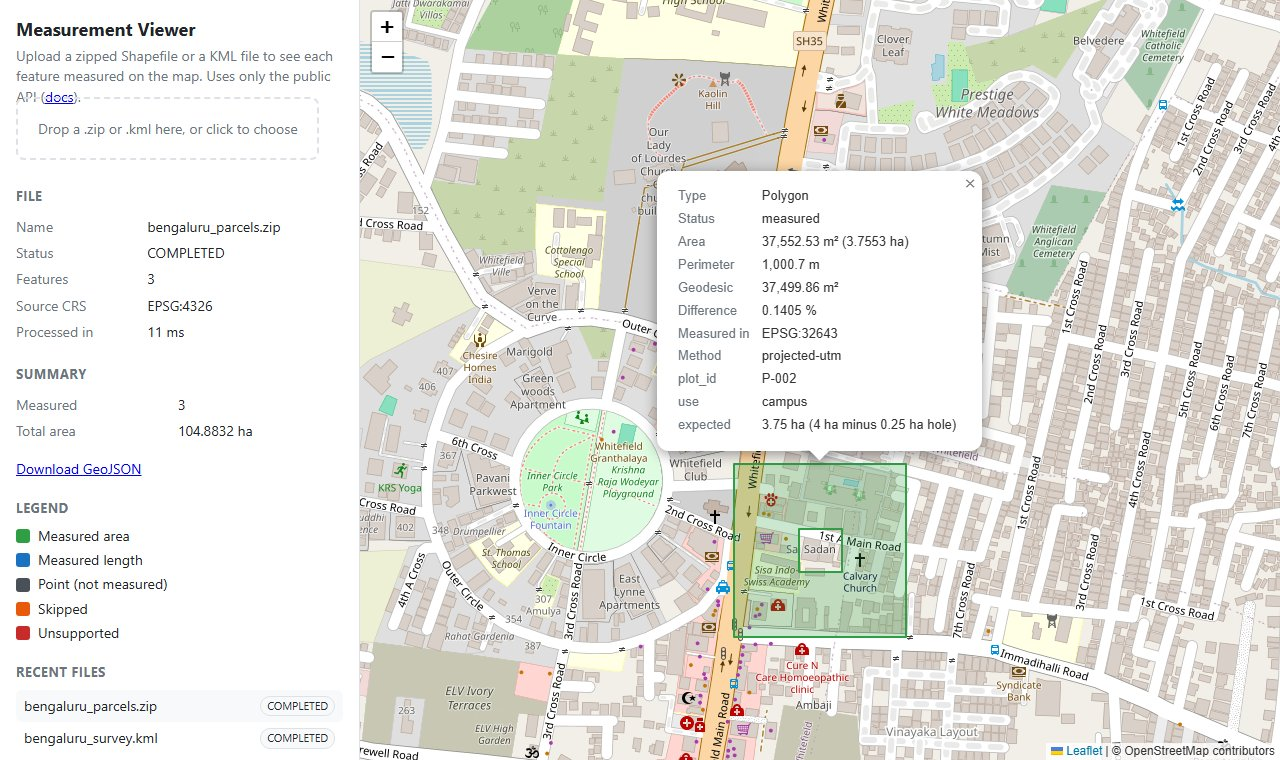
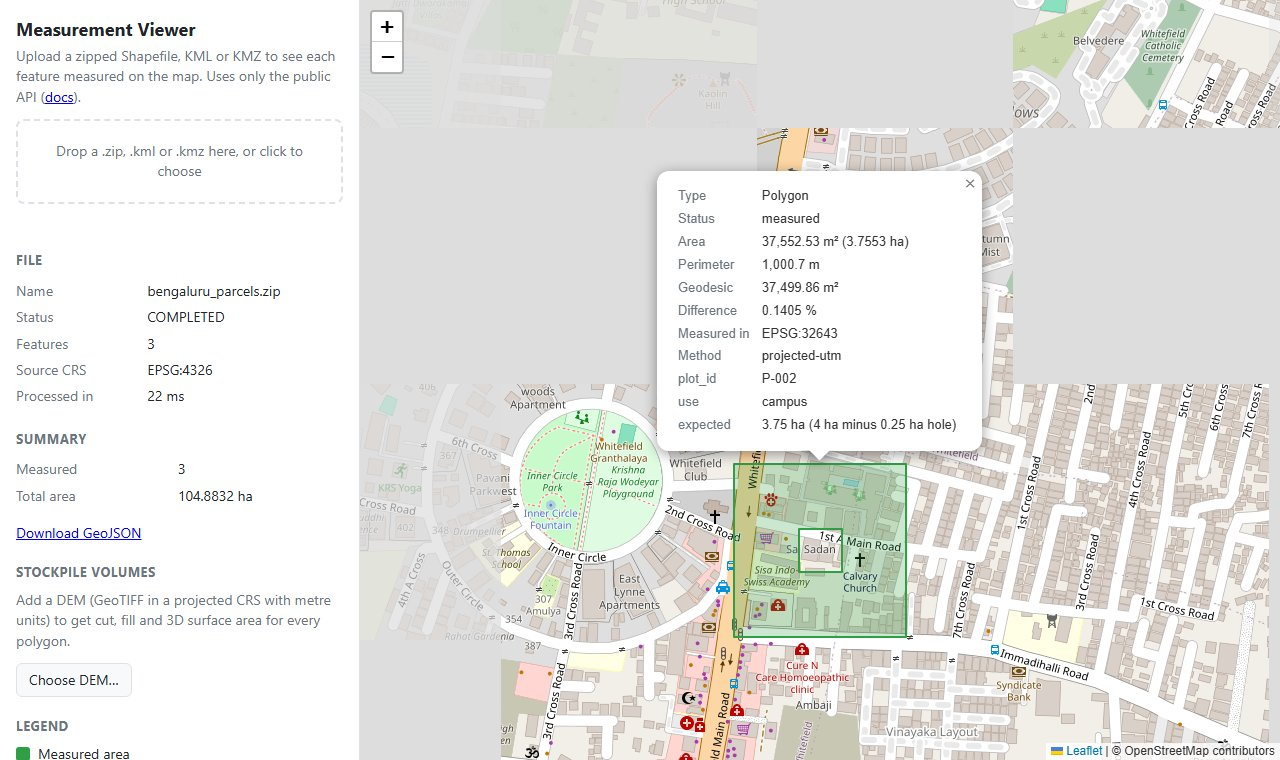
feat: stockpile volumes in the map viewer; fix drop-zone layout

diff --git a/app/static/viewer/index.html b/app/static/viewer/index.html
@@ -27,7 +27,7 @@
          margin: 20px 0 8px; }
     p.hint { color: var(--muted); margin: 0 0 12px; }
     #drop {
-      border: 2px dashed var(--border); border-radius: 8px; padding: 20px; text-align: center;
+      display: block; border: 2px dashed var(--border); border-radius: 8px; padding: 20px; text-align: center;
       cursor: pointer; color: var(--muted);
     }
     #drop.over { border-color: var(--measured-line); color: var(--measured-line); }
@@ -45,6 +45,9 @@
     .legend li { display: flex; align-items: center; gap: 8px; margin: 4px 0; }
     .swatch { width: 14px; height: 14px; border-radius: 3px; display: inline-block; }
     .warning { color: var(--skipped); }
+    .button { display: inline-block; padding: 6px 12px; border: 1px solid var(--border);
+              border-radius: 6px; cursor: pointer; background: var(--bg); }
+    .button:hover { border-color: var(--measured-line); }
     .leaflet-popup-content table { min-width: 220px; }
     @media (max-width: 720px) {
       body { flex-direction: column; }
@@ -70,6 +73,14 @@
     <h2>Summary</h2>
     <table id="summary-table"></table>
     <p><a id="geojson-link" href="#" download>Download GeoJSON</a></p>
+    <h2>Stockpile volumes</h2>
+    <p class="hint">Add a DEM (GeoTIFF in a projected CRS with metre units) to get cut, fill and
+      3D surface area for every polygon.</p>
+    <label class="button">
+      <input id="dem-input" type="file" accept=".tif,.tiff" hidden>
+      Choose DEM…
+    </label>
+    <table id="volume-table"></table>
   </section>
 
   <h2>Legend</h2>
@@ -103,6 +114,8 @@
     attribution: "&copy; OpenStreetMap contributors",
   }).addTo(map);
   let featureLayer = null;
+  let currentFileId = null;
+  let volumesByIndex = new Map();
 
   // Every call goes through the public API; errors arrive in the API's error envelope.
   async function api(path, options) {
@@ -157,6 +170,7 @@
         : `${number(properties.difference_pct, 4)} %`],
       ["Measured in", properties.measurement_crs],
       ["Method", properties.method],
+      ...volumeRows(volumesByIndex.get(properties.index)),
       ...properties.warnings.map((warning) => ["Warning", warning]),
       // The feature's own attributes from the source file, after the measurement.
       ...Object.entries(properties.attributes).map(([key, value]) => [key, String(value)]),
@@ -164,8 +178,45 @@
     return fillTable(document.createElement("table"), rows);
   }
 
+  function volumeRows(volume) {
+    if (!volume) return [];
+    return [
+      ["Cut", `${number(volume.cut_volume_m3)} m³`],
+      ["Fill", `${number(volume.fill_volume_m3)} m³`],
+      ["Surface (3D)", `${number(volume.surface_area_m2)} m²`],
+      ["Base elevation", `${number(volume.base_elevation_m)} m`],
+      ...volume.warnings.map((warning) => ["Warning", warning]),
+    ];
+  }
+
+  async function computeVolumes(dem) {
+    showMessage(`Computing volumes from ${dem.name}…`);
+    const form = new FormData();
+    form.append("dem", dem);
+    try {
+      const report = await api(`/api/files/${currentFileId}/volumes/`, { method: "POST", body: form });
+      volumesByIndex = new Map(
+        report.items.filter((item) => item.measured).map((item) => [item.index, item]),
+      );
+      fillTable(document.getElementById("volume-table"), [
+        ["DEM", `${report.dem.crs}, ${report.dem.cell_size_m[0]} m cells`],
+        ["Cut", `${number(report.totals.cut_volume_m3)} m³`],
+        ["Fill", `${number(report.totals.fill_volume_m3)} m³`],
+        ["Net", `${number(report.totals.net_volume_m3)} m³`],
+        ...report.items.filter((item) => !item.measured)
+          .map((item) => [`Feature ${item.index}`, item.reason]),
+      ]);
+      showMessage(volumesByIndex.size ? "Volumes added to the polygon popups." : "No polygons to measure.");
+    } catch (error) {
+      showMessage(error.message, true);
+    }
+  }
+
   async function loadFile(fileId) {
     const file = await api(`/api/files/${fileId}/`);
+    currentFileId = file.id;
+    volumesByIndex = new Map();
+    document.getElementById("volume-table").replaceChildren();
     history.replaceState(null, "", `?file=${file.id}`);
     document.getElementById("details").hidden = false;
     fillTable(document.getElementById("file-table"), [
@@ -253,6 +304,12 @@
       await loadRecentFiles();
     }
   }
+
+  const demInput = document.getElementById("dem-input");
+  demInput.addEventListener("change", () => {
+    if (demInput.files[0]) computeVolumes(demInput.files[0]);
+    demInput.value = "";
+  });
 
   const drop = document.getElementById("drop");
   const input = document.getElementById("file-input");
